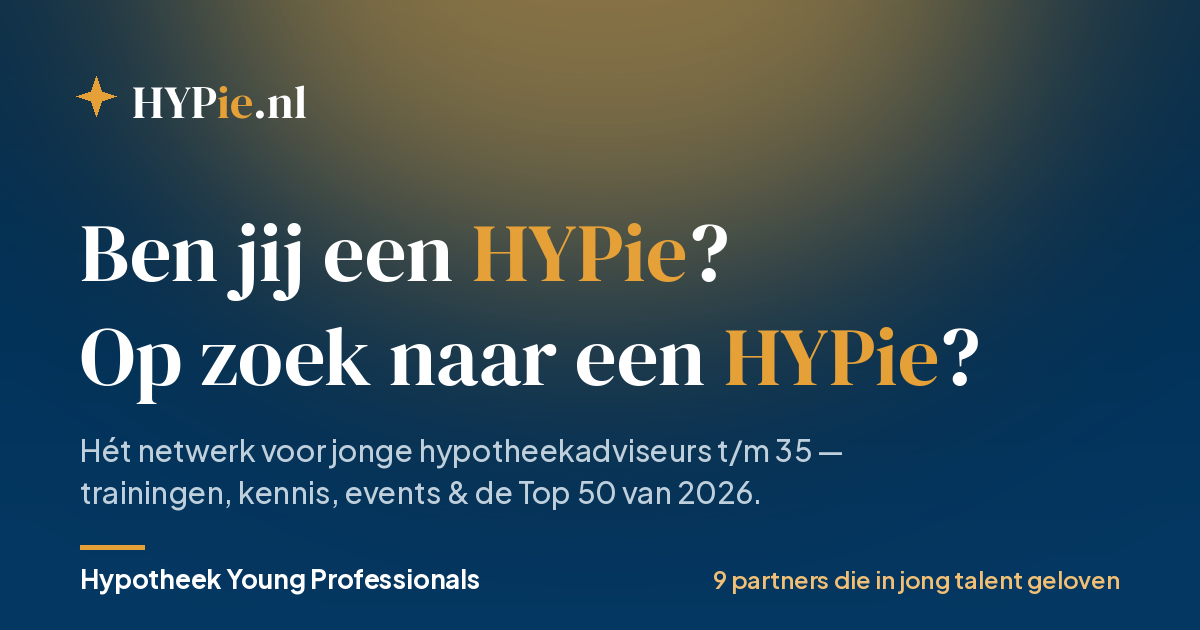
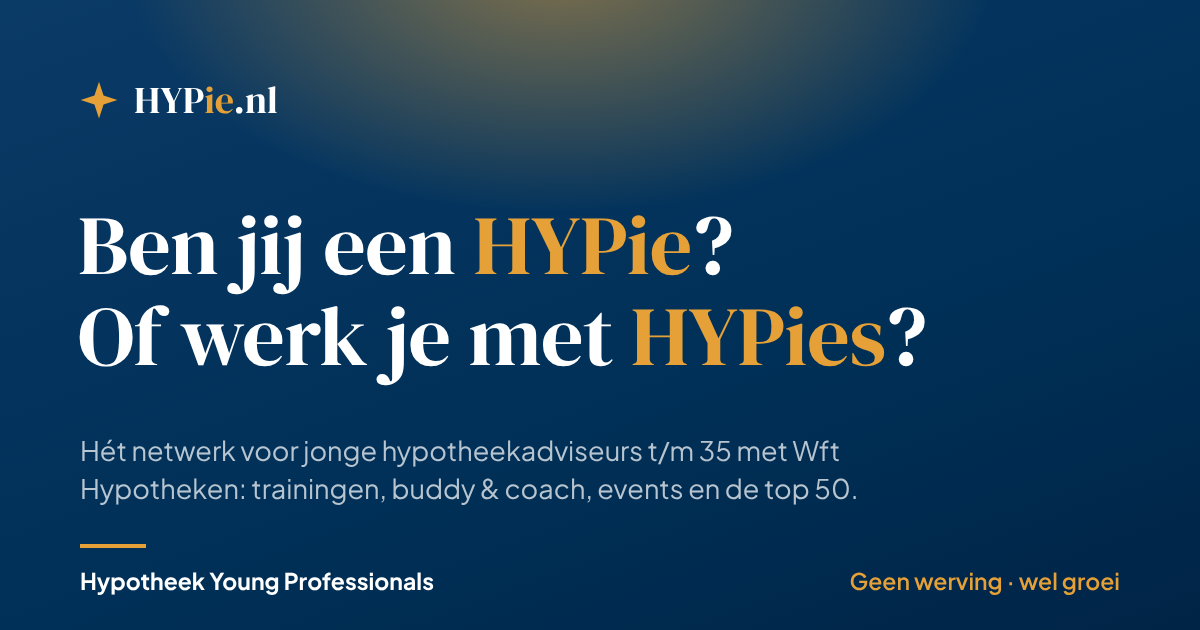
Geen werving en selectie; bedrijven in gesprek met young professionals
- Alle vacatures en wervingsclaims verwijderd (site, bedrijfslidmaatschap, partner-onepager, marketingkit, LinkedIn-posts, llms.txt)
- Kernvraag wordt 'Ben jij een HYPie? Of werk je met HYPies?'; werkgeverssectie herschreven rond investeren in eigen team
- Nieuwe sectie In gesprek met HYPies: klankbordsessie, directie aan tafel, eigen Young Board, met spelregels en aanvraagformulier
- Bedrijfslidmaatschap: vacatures vervangen door een HYPie-gesprek per jaar; FAQ over werving toegevoegd
- OG-afbeelding opnieuw gegenereerd met de nieuwe kernvraag

Claude-Session: https://claude.ai/code/session_01BTY9zGHbLSUs3ojohUwppB

diff --git a/index.html b/index.html
@@ -10,7 +10,7 @@
 <meta property="og:type" content="website">
 <meta property="og:site_name" content="HYPie.nl">
 <meta property="og:title" content="HYPie.nl — Hypotheek Young Professionals">
-<meta property="og:description" content="Ben jij een HYPie? Of op zoek naar een HYPie? Het netwerk dat jonge hypotheekadviseurs (t/m 35) in het zonnetje zet: trainingen, kennis, events en de top 50 van 2026.">
+<meta property="og:description" content="Ben jij een HYPie? Of werk je met HYPies? Het netwerk dat jonge hypotheekadviseurs (t/m 35) in het zonnetje zet: trainingen, kennis, events en de top 50 van 2026.">
 <meta property="og:url" content="https://www.hypie.nl/">
 <meta property="og:locale" content="nl_NL">
 <meta property="og:image" content="https://www.hypie.nl/hypie-og-image.png">
@@ -18,11 +18,11 @@
 <meta property="og:image:type" content="image/png">
 <meta property="og:image:width" content="1200">
 <meta property="og:image:height" content="630">
-<meta property="og:image:alt" content="HYPie.nl — Ben jij een HYPie? Of op zoek naar een HYPie?">
+<meta property="og:image:alt" content="HYPie.nl — Ben jij een HYPie? Of werk je met HYPies?">
 <meta name="twitter:image" content="https://www.hypie.nl/hypie-og-image.png">
 <meta name="twitter:card" content="summary_large_image">
 <meta name="twitter:title" content="HYPie.nl — Hypotheek Young Professionals">
-<meta name="twitter:description" content="Ben jij een HYPie? Of op zoek naar een HYPie? Het netwerk voor jonge hypotheekadviseurs t/m 35.">
+<meta name="twitter:description" content="Ben jij een HYPie? Of werk je met HYPies? Het netwerk voor jonge hypotheekadviseurs t/m 35.">
 <meta name="application-name" content="HYPie.nl">
 <meta name="apple-mobile-web-app-title" content="HYPie.nl">
 
@@ -530,6 +530,18 @@
   @media(max-width:920px){.lm-grid{grid-template-columns:1fr}}
   @media(max-width:480px){.lm-pakketten{grid-template-columns:1fr}.lm-card{padding:24px}}
 
+  /* IN GESPREK */
+  .gesprek{background:var(--paper)}
+  .gs-grid{display:grid;grid-template-columns:repeat(3,1fr);gap:18px}
+  .gs-card{background:var(--bg);border:1px solid var(--line);border-radius:18px;padding:26px 24px}
+  .gs-k{display:inline-block;font-size:.74rem;font-weight:800;letter-spacing:.12em;text-transform:uppercase;color:#fff;background:var(--primary);padding:5px 11px;border-radius:999px;margin-bottom:14px}
+  .gs-card h3{font-size:1.3rem;margin-bottom:6px}
+  .gs-card p{color:var(--text-soft);font-size:.94rem}
+  .gs-rules{margin-top:22px;background:var(--bg);border:1px solid var(--line);border-radius:20px;padding:28px 30px}
+  .gs-rules h3{font-size:1.4rem;margin-bottom:14px}
+  .gs-rules .btn{margin-top:18px}
+  @media(max-width:920px){.gs-grid{grid-template-columns:1fr}}
+
   /* VERHALEN */
   .verhalen{background:var(--paper)}
   .vh-grid{display:grid;grid-template-columns:repeat(3,1fr);gap:18px}
@@ -640,11 +652,11 @@
   <div class="wrap hero-inner">
     <div class="hero-copy">
       <span class="badge35">★ Voor hypotheekadviseurs t/m 35 jaar · met Wft Hypotheken</span>
-      <h1>Ben jij een <em>HYPie</em>?<br>Of op zoek naar een <em>HYPie</em>?</h1>
-      <p class="lead">Gratis trainingen en kennissessies, een buddy en een coach, zichtbaarheid in de top 50 en een netwerk van adviseurs van jouw leeftijd. En werkgevers vinden hier hun volgende talent.</p>
+      <h1>Ben jij een <em>HYPie</em>?<br>Of werk je met <em>HYPies</em>?</h1>
+      <p class="lead">Gratis trainingen en kennissessies, een buddy en een coach, zichtbaarheid in de top 50 en een netwerk van adviseurs van jouw leeftijd. En kantoren investeren hier in hun eigen jonge adviseurs.</p>
       <div class="hero-cta">
         <a href="#aanmelden" class="btn btn-accent btn-cta">Ik ben een HYPie →</a>
-        <a href="#werkgevers" class="btn btn-ghost">Ik zoek een HYPie</a>
+        <a href="#werkgevers" class="btn btn-ghost">Ik werk met HYPies</a>
       </div>
     </div>
     <div class="hero-stats">
@@ -669,7 +681,7 @@
       <div class="bcard reveal"><div class="ic"><svg viewBox="0 0 24 24"><rect x="3" y="5" width="18" height="16" rx="2"/><path d="M3 9h18M8 3v4M16 3v4"/></svg></div><h3>Events</h3><p>Voorrang en toegang tot congressen, borrels en YP-only meetups door het hele land.</p></div>
       <div class="bcard reveal"><div class="ic"><svg viewBox="0 0 24 24"><circle cx="9" cy="8" r="3"/><path d="M3 20c0-3 3-5 6-5s6 2 6 5"/><circle cx="17" cy="8" r="2.4"/><path d="M16 14c3 0 5 2 5 6"/></svg></div><h3>Buddy & coach</h3><p>Een buddy om mee te sparren en een coach uit de HYPie Alumni. Plus vertrouwelijke dilemmasessies met leeftijdsgenoten.</p></div>
       <div class="bcard reveal"><div class="ic"><svg viewBox="0 0 24 24"><path d="M12 2v3M12 19v3M4.2 4.2l2.1 2.1M17.7 17.7l2.1 2.1M2 12h3M19 12h3M4.2 19.8l2.1-2.1M17.7 6.3l2.1-2.1"/><circle cx="12" cy="12" r="4"/></svg></div><h3>Spotlight & top 50</h3><p>Sta dit jaar in de top 50 die we doorlopend in beeld brengen, op podia en in interviews.</p></div>
-      <div class="bcard reveal"><div class="ic"><svg viewBox="0 0 24 24"><path d="M4 18 10 12l3 3 7-8"/><path d="M16 7h4v4"/></svg></div><h3>Carrière</h3><p>Een duidelijk groeipad, vacature-tips en begeleiding bij je volgende loopbaanstap.</p></div>
+      <div class="bcard reveal"><div class="ic"><svg viewBox="0 0 24 24"><path d="M4 18 10 12l3 3 7-8"/><path d="M16 7h4v4"/></svg></div><h3>Groeien in je vak</h3><p>Van startend naar senior adviseur: welke Wft-modules, vaardigheden en ervaring erbij horen. Je coach denkt met je mee.</p></div>
     </div>
   </div>
 </section>
@@ -962,24 +974,78 @@
   <div class="wrap werk-grid">
     <div class="reveal">
       <span class="eyebrow">Voor werkgevers</span>
-      <h2>Op zoek naar een HYPie?</h2>
-      <p class="lead">Hier zit de nieuwe generatie hypotheekadviseurs. Kantoren en geldverstrekkers vinden via Hypotheek Young Professionals jong talent dat klaarstaat voor de volgende stap.</p>
+      <h2>Investeer in je eigen HYPies.</h2>
+      <p class="lead">HYPie is geen wervingskanaal. We plaatsen geen vacatures en doen niet aan werving en selectie. Je jonge adviseurs groeien hier in hun vak, en jij krijgt ze sterker terug.</p>
       <ul class="werk-list">
-        <li><span class="wn">01</span><div><b>Bind je eigen jonge adviseurs.</b> Meld je YP's aan en geef ze toegang tot trainingen, events en mentoren.</div></li>
-        <li><span class="wn">02</span><div><b>Ken de nieuwe generatie.</b> Krijg via de HYPie-Monitor grip op wat jong talent drijft, kiest en verwacht.</div></li>
-        <li><span class="wn">03</span><div><b>Word partner.</b> Versterk je werkgeversmerk bij de generatie die jouw kantoor of product dient te kennen.</div></li>
+        <li><span class="wn">01</span><div><b>Ontwikkel en bind je eigen team.</b> Meld je young professionals aan met een eigen link. Ze krijgen trainingen, een buddy, een coach en events.</div></li>
+        <li><span class="wn">02</span><div><b>Ga in gesprek met de nieuwe generatie.</b> Young professionals van andere kantoren denken mee over jouw vraag, zonder werving en zonder verkoop.</div></li>
+        <li><span class="wn">03</span><div><b>Ken de nieuwe generatie.</b> Geanonimiseerde inzichten uit de HYPie-Monitor over hoe jonge adviseurs werken, leren en kiezen.</div></li>
       </ul>
     </div>
     <div class="werk-card reveal">
-      <h3>Vind jouw HYPie</h3>
-      <p>Vertel ons wie je zoekt of meld je kantoor aan als werkgever. We brengen je in contact met de juiste young professionals.</p>
+      <h3>Zo werk je met HYPie</h3>
+      <p>Word bedrijfslid, plan een gesprek met young professionals of nodig je team uit. Geldverstrekkers en dienstverleners kiezen voor het partnerprogramma.</p>
       <a href="#lidmaatschap" class="btn btn-accent">Bekijk het bedrijfslidmaatschap →</a>
+      <a href="#in-gesprek" class="btn btn-outline" style="margin-top:10px">Plan een HYPie-gesprek</a>
       <button type="button" class="btn btn-outline" id="wgBtn" style="margin-top:10px">Nodig je team uit</button>
-      <a href="mailto:werkgevers@hypie.nl?subject=Op%20zoek%20naar%20een%20HYPie" class="btn btn-outline" style="margin-top:10px">Neem contact op</a>
       <a href="mailto:partners@hypie.nl?subject=Partner%20worden" class="btn btn-outline" style="margin-top:10px">Word partner</a>
     </div>
   </div>
 </section>
+
+<!-- IN GESPREK MET HYPIES -->
+<section class="gesprek" id="in-gesprek">
+  <div class="wrap">
+    <div class="sec-head reveal" style="max-width:720px">
+      <span class="eyebrow">In gesprek met HYPies</span>
+      <h2>Hoor wat de nieuwe generatie echt denkt.</h2>
+      <p>Wil je weten hoe jonge adviseurs naar je kantoor, je dienstverlening of het vak kijken? Wij brengen je aan tafel met young professionals van verschillende kantoren. Je krijgt eerlijke antwoorden, omdat ze niet bij jou in dienst zijn.</p>
+    </div>
+    <div class="gs-grid">
+      <div class="gs-card reveal"><div class="gs-k">60–90 min</div><h3>Klankbordsessie</h3><p>6 tot 10 young professionals reageren op jouw vraag. Bijvoorbeeld: hoe willen jonge adviseurs werken? Wat doet AI met het adviesgesprek? Wat maakt een kantoor een plek waar je blijft?</p></div>
+      <div class="gs-card reveal"><div class="gs-k">Rondetafel</div><h3>Directie aan tafel</h3><p>Je directie of MT in gesprek met young professionals. Een omgekeerd mentoraat: jonge adviseurs geven de leiding een spiegel.</p></div>
+      <div class="gs-card reveal"><div class="gs-k">Traject</div><h3>Een eigen Young Board</h3><p>We helpen je kantoor een eigen Young Board op te zetten: jonge medewerkers die gevraagd en ongevraagd advies geven aan de directie. Met ons format en een gespreksleider voor de start.</p></div>
+    </div>
+    <div class="gs-rules reveal">
+      <h3>Spelregels</h3>
+      <ul class="dl-list">
+        <li><b>Geen werving.</b> Je benadert deelnemers niet voor een baan, ook niet achteraf.</li>
+        <li><b>Geen verkoop.</b> Geen productpresentaties of commerciële pitches.</li>
+        <li><b>Vrijwillig en vertrouwelijk.</b> Wij selecteren de deelnemers, niet de opdrachtgever. Uitspraken worden niet aan personen toegeschreven.</li>
+        <li><b>Je krijgt een geanonimiseerd verslag</b> met de belangrijkste inzichten.</li>
+      </ul>
+      <button type="button" class="btn btn-accent" id="gsBtn">Plan een HYPie-gesprek →</button>
+    </div>
+  </div>
+</section>
+
+<!-- HYPIE-GESPREK MODAL -->
+<div class="modal" id="gsModal">
+  <div class="modal-box">
+    <button class="modal-close" aria-label="Sluiten">✕</button>
+    <div id="gsBody">
+      <h3>Plan een HYPie-gesprek</h3>
+      <p class="sub">Vertel ons je vraag. We nemen contact op over het format, de datum en de deelnemers.</p>
+      <div class="field"><label for="gs_org">Organisatie</label><input id="gs_org" type="text" autocomplete="organization"><span class="err">Vul je organisatie in.</span></div>
+      <div class="field-row">
+        <div class="field"><label for="gs_naam">Naam</label><input id="gs_naam" type="text" autocomplete="name"><span class="err">Vul je naam in.</span></div>
+        <div class="field"><label for="gs_em">E-mailadres</label><input id="gs_em" type="email" autocomplete="email"><span class="err">Vul een geldig e-mailadres in.</span></div>
+      </div>
+      <div class="field"><label for="gs_vorm">Soort gesprek</label>
+        <select id="gs_vorm"><option>Klankbordsessie</option><option>Directie aan tafel</option><option>Een eigen Young Board</option><option>Weet ik nog niet</option></select>
+      </div>
+      <div class="field"><label for="gs_vraag">Jouw vraag of onderwerp</label><input id="gs_vraag" type="text"><span class="err">Beschrijf kort je vraag.</span></div>
+      <div class="hp" aria-hidden="true"><label>Laat dit veld leeg<input type="text" id="hp_gs" tabindex="-1" autocomplete="off"></label></div>
+      <label class="check-line" id="gsLine"><input type="checkbox" id="gs_ok"> Ik ga akkoord met de spelregels: geen werving, geen verkoop, en deelnemers worden door HYPie geselecteerd.</label>
+      <button class="btn btn-accent" id="gsSubmit" type="button">Verstuur aanvraag →</button>
+    </div>
+    <div class="modal-ok" id="gsOk">
+      <div class="check"><svg viewBox="0 0 24 24" width="28" height="28" fill="none" stroke="#003057" stroke-width="3"><path d="m5 13 4 4L19 7"/></svg></div>
+      <h3>Aanvraag ontvangen!</h3>
+      <p class="sub">We nemen contact met je op om het gesprek voor te bereiden.</p>
+    </div>
+  </div>
+</div>
 
 <!-- TEAM UITNODIGEN MODAL -->
 <div class="modal" id="wgModal">
@@ -1108,7 +1174,7 @@
       <div class="nb-card reveal">
         <div class="glow"></div>
         <h3>De HYPie-nieuwsbrief</h3>
-        <p>Elke maand de beste events, trainingen, vacatures en een nieuwe Hypotheek Young Professional in de spotlight. Eén mail, geen spam.</p>
+        <p>Elke maand de beste events, trainingen, kennis en een nieuwe Hypotheek Young Professional in de spotlight. Eén mail, geen spam.</p>
         <div class="nb-form">
           <div class="hp" aria-hidden="true"><label>Laat dit veld leeg<input type="text" id="hp_nb" tabindex="-1" autocomplete="off"></label></div>
           <input type="email" id="nbEmail" placeholder="jouw@email.nl" aria-label="E-mailadres">
@@ -1158,7 +1224,7 @@
           <li><svg viewBox="0 0 24 24" fill="none" stroke="#E5A138" stroke-width="2.4"><path d="m5 13 4 4L19 7"/></svg> Eigen aanmeldlink voor je team, met overzicht van het aantal aanmeldingen</li>
           <li><svg viewBox="0 0 24 24" fill="none" stroke="#E5A138" stroke-width="2.4"><path d="m5 13 4 4L19 7"/></svg> Voorrang voor je young professionals bij events en masterclasses</li>
           <li><svg viewBox="0 0 24 24" fill="none" stroke="#E5A138" stroke-width="2.4"><path d="m5 13 4 4L19 7"/></svg> Een incompany kennissessie per jaar op je kantoor</li>
-          <li><svg viewBox="0 0 24 24" fill="none" stroke="#E5A138" stroke-width="2.4"><path d="m5 13 4 4L19 7"/></svg> Je vacatures in de HYPie-nieuwsbrief en de LinkedIn-groep</li>
+          <li><svg viewBox="0 0 24 24" fill="none" stroke="#E5A138" stroke-width="2.4"><path d="m5 13 4 4L19 7"/></svg> Eén HYPie-gesprek per jaar: een klankbordsessie met young professionals van andere kantoren</li>
           <li><svg viewBox="0 0 24 24" fill="none" stroke="#E5A138" stroke-width="2.4"><path d="m5 13 4 4L19 7"/></svg> Sectorinzichten uit de HYPie-Monitor, geanonimiseerd</li>
           <li><svg viewBox="0 0 24 24" fill="none" stroke="#E5A138" stroke-width="2.4"><path d="m5 13 4 4L19 7"/></svg> Vermelding als bedrijfslid op HYPie.nl</li>
         </ul>
@@ -1330,6 +1396,7 @@
       <div class="qa reveal"><button>Voor wie is HYPie? <span class="plus">+</span></button><div class="ans"><p>Voor hypotheekadviseurs van 35 jaar of jonger met minimaal het Wft-diploma Hypothecair Krediet (Wft Hypotheken) — van startend adviseur in loondienst tot zelfstandig adviseur.</p></div></div>
       <div class="qa reveal"><button>Ik ben mijn Wft Hypotheken nog aan het halen. Kan ik meedoen? <span class="plus">+</span></button><div class="ans"><p>Lid worden kan zodra je het diploma Hypothecair Krediet hebt. Tot die tijd kun je je inschrijven voor de nieuwsbrief en de HYPie-Monitor, zodat je niets mist. Meld je aan zodra je geslaagd bent.</p></div></div>
       <div class="qa reveal"><button>Hoe werkt de top 50? <span class="plus">+</span></button><div class="ans"><p>De top 50 is een jaarlijkse selectie van young professionals die we in het zonnetje zetten. Er is geen ranglijst op punten — iedereen staat gelijk en de volgorde wisselt steeds, zodat telkens iemand anders bovenaan staat. Elk jaar stellen we een nieuwe top 50 samen.</p></div></div>
+      <div class="qa reveal"><button>Kunnen werkgevers via HYPie mensen werven? <span class="plus">+</span></button><div class="ans"><p>Nee. HYPie plaatst geen vacatures en doet niet aan werving en selectie. Ook bij HYPie-gesprekken mogen bedrijven deelnemers niet benaderen voor een baan. Zo kunnen kantoren hun mensen met een gerust hart aanmelden.</p></div></div>
       <div class="qa reveal"><button>Kost het lidmaatschap iets? <span class="plus">+</span></button><div class="ans"><p>Nee, het lidmaatschap is gratis dankzij onze partners. Sommige premium-trainingen kunnen een sterk verlaagde bijdrage hebben — dat staat altijd vooraf vermeld.</p></div></div>
       <div class="qa reveal"><button>Wat gebeurt er na mijn 35e? <span class="plus">+</span></button><div class="ans"><p>In het jaar waarin je 36 wordt, stroom je door naar de <a href="#alumni" style="color:var(--accent);font-weight:600">HYPie Alumni</a>. Je blijft bij je lichting (het jaartal van doorstroom), houdt toegang tot het netwerk en kunt coach, spreker of jurylid voor de top 50 worden. De YP-voordelen en meedoen aan de top 50 gelden t/m je 35e.</p></div></div>
     </div>
@@ -2229,6 +2296,22 @@
       type:'bedrijfslidmaatschap', kantoor:v('bd_kt'), contactpersoon:v('bd_naam'), telefoon:v('bd_tel'),
       email:v('bd_em'), aantal_yp:v('bd_aantal'), pakket:v('bd_pakket'), teamlink:link
     });
+  });
+
+  /* ====== HYPIE-GESPREK (bedrijven in gesprek met young professionals) ====== */
+  modalPair('gsModal','gsBtn','gsBody','gsOk');
+  document.getElementById('gsSubmit').addEventListener('click',function(){
+    if((document.getElementById('hp_gs')||{}).value) return;
+    var v=function(id){return (document.getElementById(id).value||'').trim();};
+    var ok=true;
+    ['gs_org','gs_naam','gs_vraag'].forEach(function(id){var e=!v(id);setErr(id,e);if(e)ok=false;});
+    var eEm=!/^[^\s@]+@[^\s@]+\.[^\s@]+$/.test(v('gs_em')); setErr('gs_em',eEm); if(eEm)ok=false;
+    var eC=!document.getElementById('gs_ok').checked;
+    document.getElementById('gsLine').classList.toggle('invalid',eC); if(eC)ok=false;
+    if(!ok) return;
+    document.getElementById('gsBody').style.display='none';
+    document.getElementById('gsOk').classList.add('show');
+    dispatch('Aanvraag HYPie-gesprek', {type:'hypie_gesprek', organisatie:v('gs_org'), naam:v('gs_naam'), email:v('gs_em'), vorm:v('gs_vorm'), vraag:v('gs_vraag'), akkoord_spelregels:true});
   });
 
   // init

diff --git a/marketing.html b/marketing.html
@@ -141,17 +141,17 @@
     </div>
     <div class="copyblock">
       <div class="lbl">Over HYPie (lang) <button class="copybtn">Kopieer</button></div>
-      <div class="copytext">Ben jij een HYPie? Of op zoek naar een HYPie?
+      <div class="copytext">Ben jij een HYPie? Of werk je met HYPies?
 
 HYPie is het netwerk voor de nieuwe generatie hypotheekadviseurs: iedereen tot en met 35 jaar die het vak vooruit wil helpen. Want jong talent verdient een eigen plek — eentje die je in het zonnetje zet in plaats van achteraan in de rij.
 
 Wat we doen:
 • Trainingen & kennis — masterclasses, tools en updates over wet- en regelgeving, gratis of met flinke korting.
 • Events & community — meetups en netwerkborrels door het hele land, plus een actieve community om elke dag bij te horen.
-• Mentoren — ervaren adviseurs die je verder helpen in je vak én je loopbaan.
+• Buddy & coach — een buddy die net een stap verder is en een coach uit de HYPie Alumni.
 • De top 50 — een jaarlijkse lijst die jonge adviseurs zichtbaar maakt in de sector.
 
-Voor werkgevers is HYPie de plek om jong talent te vinden, vacatures te delen en het eigen team te binden. Het lidmaatschap is gratis, mede mogelijk gemaakt door onze partners: hoofdsponsor Lloyds, DFO, NVHP, Impact, Blinqx, De Goudse, VCN, Argenta en Quion.
+Voor werkgevers is HYPie de plek om in het eigen team te investeren. HYPie doet niet aan werving en selectie. Het lidmaatschap is gratis, mede mogelijk gemaakt door onze partners: hoofdsponsor Lloyds, DFO, NVHP, Impact, Blinqx, De Goudse, VCN, Argenta en Quion.
 
 Word lid op hypie.nl.</div>
     </div>
@@ -163,7 +163,7 @@ Word lid op hypie.nl.</div>
   <div class="wrap">
     <span class="eyebrow">LinkedIn</span>
     <h2>Lanceerposts</h2>
-    <p class="intro">Drie kant-en-klare posts: lancering, werving en werkgevers.</p>
+    <p class="intro">Drie kant-en-klare posts: lancering, word lid en werkgevers.</p>
 
     <div class="copyblock">
       <div class="lbl">Post 1 — De lancering <button class="copybtn">Kopieer</button></div>
@@ -177,7 +177,7 @@ Als HYPie krijg je:
 ✦ Trainingen & masterclasses (gratis of met flinke korting)
 ✦ Kennis, tools en updates over wet- en regelgeving
 ✦ Events, meetups en een community door heel Nederland
-✦ Mentoren die je verder helpen
+✦ Een buddy en een coach die je verder helpen
 ✦ Een plek in de jaarlijkse top 50 van 2026
 
 En het mooiste: het lidmaatschap is gratis, mede mogelijk gemaakt door 9 partners die in jonge adviseurs &amp; talent geloven.
@@ -195,11 +195,11 @@ Bij HYPie bouw je aan je vak én aan je netwerk, met leeftijdsgenoten die in dez
 
 Wat je eraan hebt:
 • Korting of gratis toegang tot trainingen en events
-• Een mentor die je op weg helpt
+• Een buddy en een coach die je op weg helpen
 • Zichtbaarheid in de top 50 van 2026
 • Een achterban van jonge adviseurs door het hele land
 
-Meld je in twee minuten aan en je staat meteen op de kaart.
+Meld je in 30 seconden aan en je staat meteen op de kaart.
 
 👉 hypie.nl
 
@@ -208,20 +208,18 @@ Meld je in twee minuten aan en je staat meteen op de kaart.
 
     <div class="copyblock">
       <div class="lbl">Post 3 — Voor werkgevers <button class="copybtn">Kopieer</button></div>
-      <div class="copytext">Op zoek naar een HYPie? 🔎
+      <div class="copytext">Werk jij met HYPies? 🤝
 
-De nieuwe generatie hypotheekadviseurs zit op HYPie.nl. Voor kantoren en geldverstrekkers is dat goud waard:
+Je jonge adviseurs zijn de toekomst van je kantoor. Bij HYPie.nl groeien ze in hun vak, en jij krijgt ze sterker terug.
 
-→ Talent in beeld via de top 50 en de ledenlijst per regio
-→ Plaats je vacatures gericht bij adviseurs t/m 35
-→ Bind je eigen jonge adviseurs met trainingen, events en mentoren
-→ Versterk je werkgeversmerk bij de generatie die je morgen nodig hebt
+→ Meld je eigen young professionals aan: trainingen, buddy, coach en events
+→ Ga in gesprek met de nieuwe generatie in een klankbordsessie of rondetafel
+→ Ken de nieuwe generatie via de HYPie-Monitor
+→ Geen werving en selectie, geen vacatures: je mensen zijn hier veilig
 
-Onze partners (hoofdsponsor Lloyds, DFO, NVHP, Impact, Blinqx, De Goudse, VCN, Argenta en Quion) gingen je voor.
+Investeer in je eigen HYPies 👉 hypie.nl
 
-Benieuwd hoe je jouw HYPie vindt? 👉 hypie.nl
-
-#werkgeversmerk #recruitment #hypotheek #talent #HYPie</div>
+#hypotheekadvies #youngprofessionals #ontwikkeling #hypotheek #HYPie</div>
     </div>
   </div>
 </section>

diff --git a/hypie-partner-onepager.html b/hypie-partner-onepager.html
@@ -54,8 +54,8 @@
 
     <h2>Waarom partner worden</h2>
     <div class="why">
-      <div><b>Talent in beeld.</b> Direct contact met jonge adviseurs t/m 35, landelijk en per regio.</div>
-      <div><b>Werkgeversmerk.</b> Profileer je als aantrekkelijke werkgever bij de nieuwe generatie.</div>
+      <div><b>In gesprek met de nieuwe generatie.</b> Klankbordsessies met jonge adviseurs over jouw dienstverlening. Geen werving, geen verkoop.</div>
+      <div><b>Vakbekwaamheid.</b> Draag bij aan trainingen en masterclasses voor de nieuwe generatie.</div>
       <div><b>Zichtbaarheid.</b> Logo, events en content bij een groeiende, betrokken community.</div>
       <div><b>Sectorimpact.</b> Investeer mee in vakbekwaamheid, instroom en behoud in de branche.</div>
     </div>
@@ -73,7 +73,7 @@
       <tbody>
         <tr><td>Logo op HYPie.nl &amp; in de nieuwsbrief</td><td class="c"><span class="yes">✓</span> prominent</td><td class="c"><span class="yes">✓</span></td><td class="c"><span class="yes">✓</span></td></tr>
         <tr><td>Vermelding bij de top 50 &amp; Awards</td><td class="c"><span class="yes">✓</span></td><td class="c"><span class="yes">✓</span></td><td class="c">—</td></tr>
-        <tr><td>Vacatures plaatsen voor leden</td><td class="c">onbeperkt</td><td class="c">tot 5/jaar</td><td class="c">tot 1/jaar</td></tr>
+        <tr><td>HYPie-gesprekken (klankbordsessies met young professionals)</td><td class="c">2×/jaar</td><td class="c">1×/jaar</td><td class="c">—</td></tr>
         <tr><td>Spreek-/standplek op HYPie-events</td><td class="c"><span class="yes">✓</span> + keynote</td><td class="c"><span class="yes">✓</span></td><td class="c">—</td></tr>
         <tr><td>Eigen training/masterclass aanbieden</td><td class="c"><span class="yes">✓</span></td><td class="c">in overleg</td><td class="c">—</td></tr>
         <tr><td>Content/interview op de site &amp; socials</td><td class="c">4×/jaar</td><td class="c">2×/jaar</td><td class="c">1×/jaar</td></tr>
@@ -82,7 +82,7 @@
         <tr><td><span class="price">Bijdrage per jaar (indicatief)</span></td><td class="c price">€ [bedrag]</td><td class="c price">€ [bedrag]</td><td class="c price">€ [bedrag]</td></tr>
       </tbody>
     </table>
-    <p class="note">Bedragen en aantallen zijn indicatief en in te vullen. Maximaal [x] hoofdpartners per jaar voor exclusiviteit.</p>
+    <p class="note">HYPie doet niet aan werving en selectie: partners plaatsen geen vacatures en benaderen leden niet voor een baan. Bedragen en aantallen zijn indicatief en in te vullen. Maximaal [x] hoofdpartners per jaar voor exclusiviteit.</p>
 
     <h2>Onze huidige partners</h2>
     <div class="partners">Hoofdsponsor Lloyds · DFO · NVHP · Impact · Blinqx · De Goudse · VCN · Argenta · Quion</div>

diff --git a/hypie-linkedin-lanceerposts.md b/hypie-linkedin-lanceerposts.md
@@ -18,7 +18,7 @@ Als HYPie krijg je:
 ✦ Trainingen & masterclasses (gratis of met flinke korting)
 ✦ Kennis, tools en updates over wet- en regelgeving
 ✦ Events, meetups en een community door heel Nederland
-✦ Mentoren die je verder helpen
+✦ Een buddy en een coach die je verder helpen
 ✦ Een plek in de jaarlijkse **top 50 van 2026**
 
 En het mooiste: het lidmaatschap is gratis, mede mogelijk gemaakt door 9 partners die in jonge adviseurs geloven.
@@ -29,7 +29,7 @@ Ben jij een HYPie — of ken je er één? 👉 hypie.nl
 
 ---
 
-## Post 2 — Word lid (werving)
+## Post 2 — Word lid
 
 35 jaar of jonger en werkzaam in hypotheekadvies? Dan is dit voor jou. 🎯
 
@@ -37,11 +37,11 @@ Bij **HYPie** bouw je aan je vak én aan je netwerk, met leeftijdsgenoten die in
 
 Wat je eraan hebt:
 • Korting of gratis toegang tot trainingen en events
-• Een mentor die je op weg helpt
+• Een buddy en een coach die je op weg helpen
 • Zichtbaarheid in de top 50 van 2026
 • Een achterban van jonge adviseurs door het hele land
 
-Meld je in twee minuten aan en je staat meteen op de kaart.
+Meld je in 30 seconden aan en je staat meteen op de kaart.
 
 👉 hypie.nl
 
@@ -51,26 +51,24 @@ Meld je in twee minuten aan en je staat meteen op de kaart.
 
 ## Post 3 — Voor werkgevers & partners
 
-Op zoek naar een HYPie? 🔎
+Werk jij met HYPies? 🤝
 
-De nieuwe generatie hypotheekadviseurs zit op **HYPie.nl**. Voor kantoren en geldverstrekkers is dat goud waard:
+Je jonge adviseurs zijn de toekomst van je kantoor. Bij HYPie.nl groeien ze in hun vak, en jij krijgt ze sterker terug.
 
-→ Talent in beeld via de top 50 en de ledenlijst per regio
-→ Plaats je vacatures gericht bij adviseurs t/m 35
-→ Bind je eigen jonge adviseurs met trainingen, events en mentoren
-→ Versterk je werkgeversmerk bij de generatie die je morgen nodig hebt
+→ Meld je eigen young professionals aan: trainingen, buddy, coach en events
+→ Ga in gesprek met de nieuwe generatie in een klankbordsessie of rondetafel
+→ Ken de nieuwe generatie via de HYPie-Monitor
+→ Geen werving en selectie, geen vacatures: je mensen zijn hier veilig
 
-Onze partners (DFO, NVHP, Impact, Blinqx, De Goudse, VCN, Lloyds Bank, Argenta en ING) gingen je voor.
+Investeer in je eigen HYPies 👉 hypie.nl
 
-Benieuwd hoe je jouw HYPie vindt? 👉 hypie.nl
-
-#werkgeversmerk #recruitment #hypotheek #talent #HYPie
+#hypotheekadvies #youngprofessionals #ontwikkeling #hypotheek #HYPie
 
 ---
 
 ## Optioneel — korte teaser (voor stories / kort bericht)
 
-Ben jij een HYPie? Of op zoek naar een HYPie?
+Ben jij een HYPie? Of werk je met HYPies?
 
 Het netwerk voor jonge hypotheekadviseurs (t/m 35) is live. 👉 hypie.nl
 
